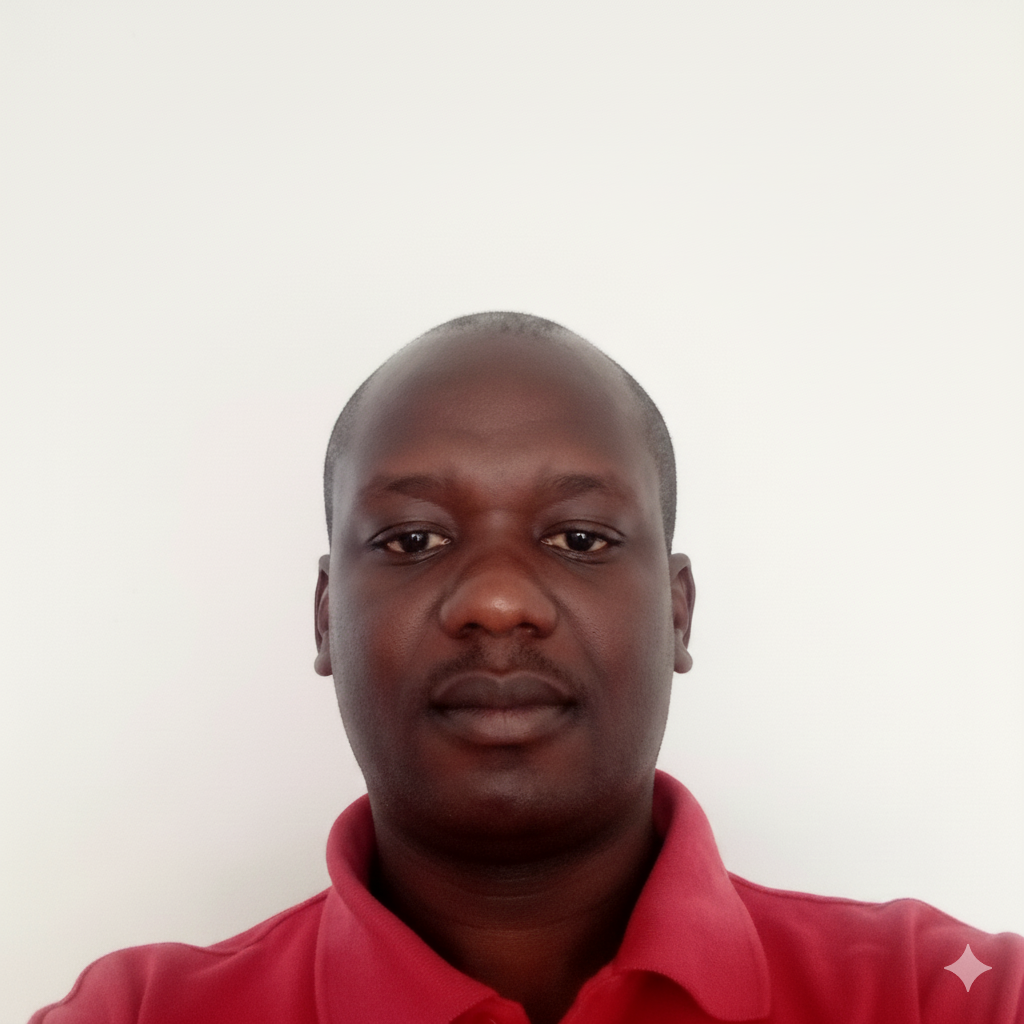
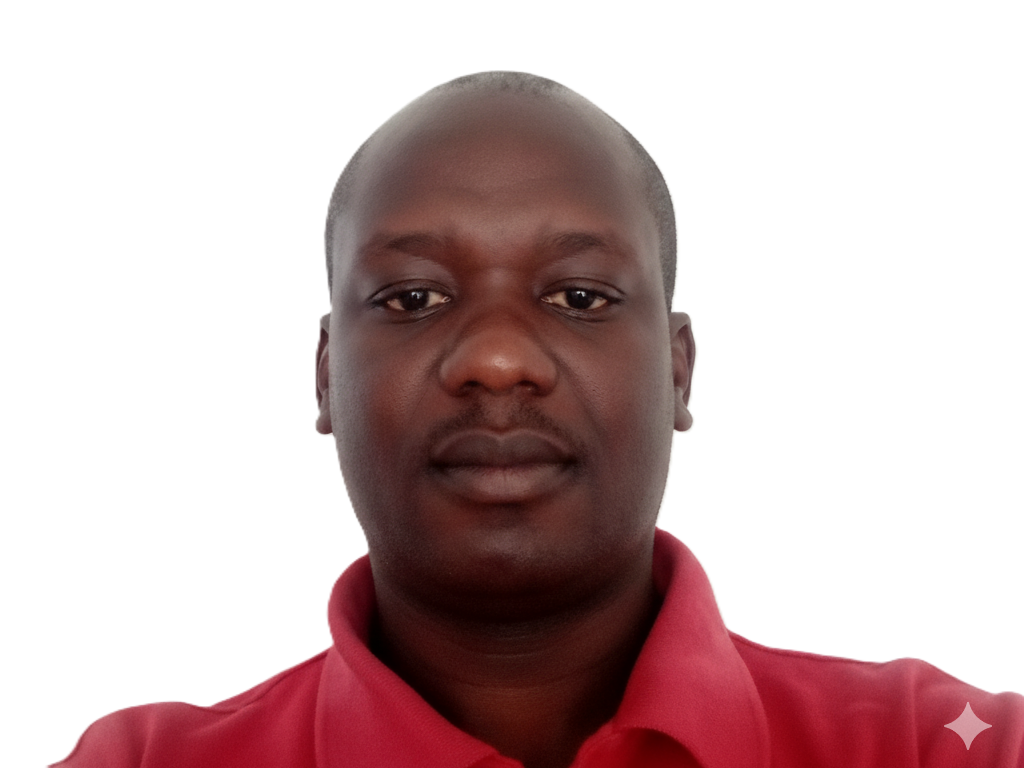
Add files via upload

diff --git a/index.html b/index.html
@@ -10,13 +10,14 @@
 		<meta charset="utf-8" />
 		<meta name="viewport" content="width=device-width, initial-scale=1, user-scalable=no" />
 		<link rel="stylesheet" href="assets/css/main.css" />
+		<link rel="stylesheet" href="assets/css/custom.css" />
 	</head>
 	<body class="is-preload">
 
 		<!-- Header -->
 			<section id="header">
 				<header>
-					<span class="image avatar"><img src="images/photo.jpg" alt="" /></span>
+					<span class="image avatar"><img src="images/photo.png" alt="" /></span>
 					<h1 id="logo"><a href="#">Madivoli Gerishom</a></h1>
 					<p>Associate Data Analyst | Business & Retail Analyst.<br />
 					Based in Nairobi, Kenya</p>
@@ -139,9 +140,7 @@
 													<span style="display:inline-block; background:#f0f4ff; color:#2d3a4a; border-radius:12px; padding:2px 12px; margin-right:6px; font-size:0.95em;">Matplotlib</span></p>
 													<a href="https://madivoli.github.io/Customer-Risk-Intelligence-and-Proactive-Retention-Framework/" class="button small">Read more</a></li>
 												</a>
-
-											
-											</div>
+										</div>
 										</article>
 										<article>
 											<a href="#" class="image"><img src="images/mental health.jpg" alt="" /></a>
@@ -152,6 +151,18 @@
 													<span style="display:inline-block; background:#f0f4ff; color:#2d3a4a; border-radius:12px; padding:2px 12px; margin-right:6px; font-size:0.95em;">SQL</span>
        												<span style="display:inline-block; background:#f0f4ff; color:#2d3a4a; border-radius:12px; padding:2px 12px; margin-right:6px; font-size:0.95em;">MySQL</span></p>
 													<a href="https://madivoli.github.io/students-mental-health-analysis/" class="button small">Read more</a></li>
+										</a>
+										</div>
+										</article>
+										<article>
+											<a href="#" class="image"><img src="images/stephen-phillips-hostreviews-co-uk-shr_Xn8S8QU-unsplash.jpg" alt="" /></a>
+											<div class="inner">
+												<p><strong>Dashboard</strong></p>
+												<h4>Hotel's Performance Dashboard</h4>
+												<p>This interactive dashboard illustrates how data-driven hospitality management can integrate customer lifetime value analysis with operational metrics to enhance revenue strategies and improve hotel performance. Key Performance Indicator (KPI) tracking includes LTV, RevPAR, and various operational metrics.</p>
+													<span style="display:inline-block; background:#f0f4ff; color:#2d3a4a; border-radius:12px; padding:2px 12px; margin-right:6px; font-size:0.95em;">Tableau</span>
+       												<span style="display:inline-block; background:#f0f4ff; color:#2d3a4a; border-radius:12px; padding:2px 12px; margin-right:6px; font-size:0.95em;">Data Visualization</span></p>
+													<a href="https://public.tableau.com/views/hotelbookings_17610396850370/HotelDashboard?:language=en-US&:sid=&:redirect=auth&:display_count=n&:origin=viz_share_link" class="button small">View</a></li>
 												</a>
 										</article>
 									</div>
@@ -537,5 +548,4 @@ print 'It took ' + i + ' iterations to sort the deck.';</code></pre>
 			<script src="assets/js/main.js"></script>
 
 	</body>
-
 </html>
